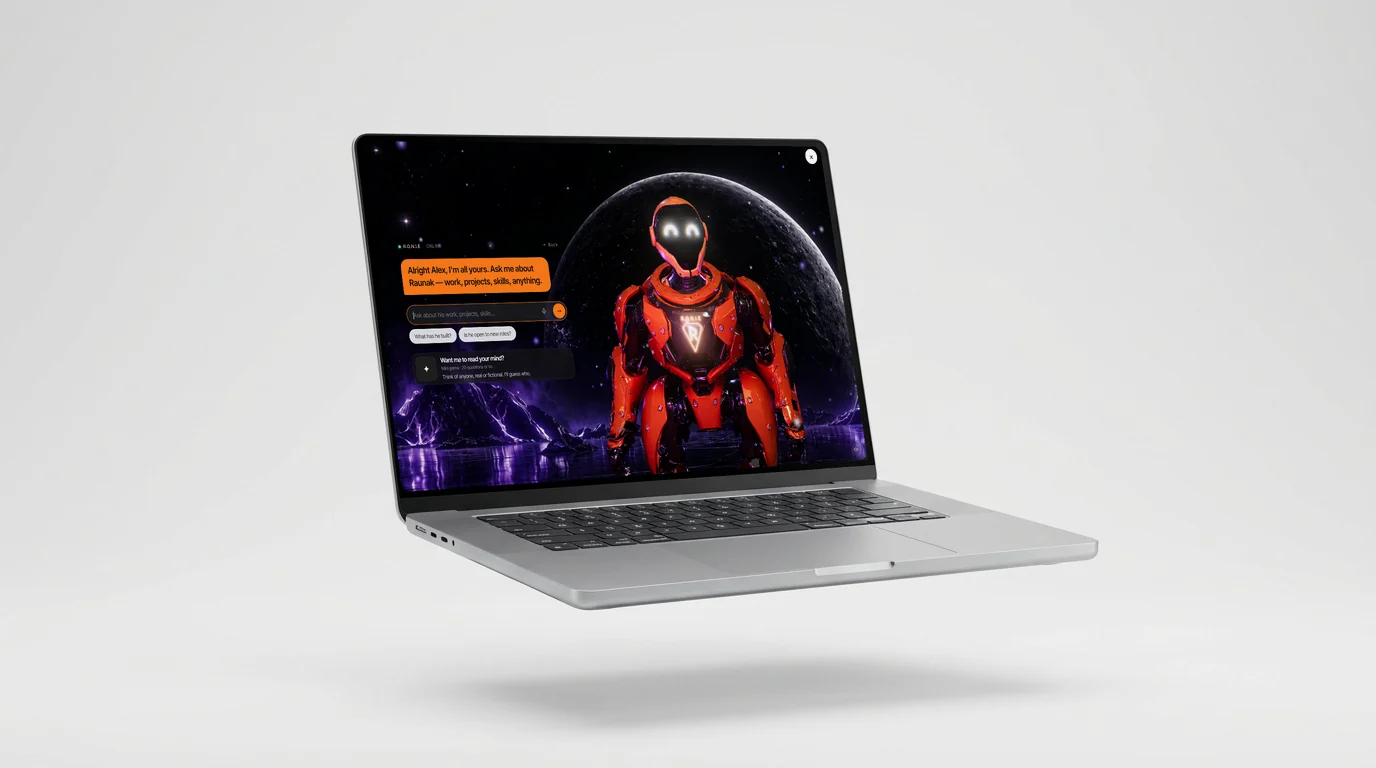
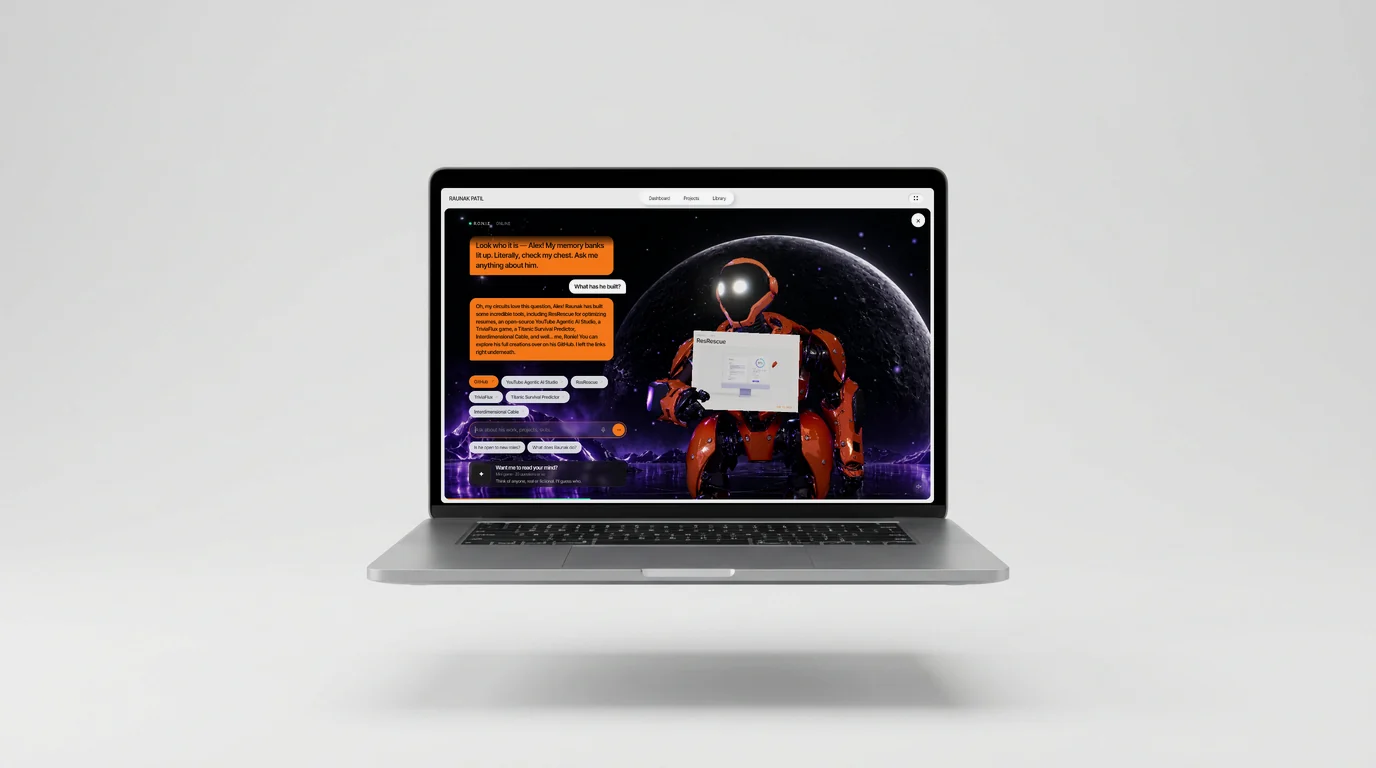
Projects: Ronie's card on the new laptop, holding a project card clear of his chest

Changed region(s): [[0.25, 0.1562, 0.8125, 0.8125], [0.375, 0.8125, 0.7188, 0.9688]]

diff --git a/js/data.js b/js/data.js
@@ -109,7 +109,7 @@ window.PORTFOLIO = {
      sit in it; 16:9 and 4:3); without them the tunnel uses image / imageMobile. */
   projects: [
     {
-      title: 'Ronie — 3D AI Agent', category: 'AI Agents', year: 2026, image: 'img/projects/ronie.webp?v=3', imageMobile: 'img/projects/ronie-mobile.webp?v=2', tunnelImage: 'img/tunnel/ronie.webp', tunnelImageMobile: 'img/tunnel/ronie-mobile.webp', colors: ['#ff7a1a', '#7c5cff'],
+      title: 'Ronie — 3D AI Agent', category: 'AI Agents', year: 2026, image: 'img/projects/ronie.webp?v=4', imageMobile: 'img/projects/ronie-mobile.webp?v=2', tunnelImage: 'img/tunnel/ronie.webp', tunnelImageMobile: 'img/tunnel/ronie-mobile.webp', colors: ['#ff7a1a', '#7c5cff'],
       tags: ['three.js', 'WebGPU', 'Kokoro TTS', 'Cloudflare Workers', 'Gemini', 'Blender'],
       description: "The 3D AI agent who lives on this website: he answers visitors' questions from real facts only, speaks in a neural voice that runs on their own GPU, reacts with 23 expressions and 23 moves I authored in Blender with Python, and plays a mind-reading game — free to run. Works with any 3D character; the code is an open template.",
       link: 'https://github.com/raunakpatil/ronie-3d-ai-website-agent', linkText: 'See the case study ↗',

diff --git a/index.html b/index.html
@@ -26,7 +26,7 @@
       d.classList.add(ronie || calm ? 'no-intro' : 'intro-on');
     })();
   </script>
-  <link rel="stylesheet" href="css/style.css?v=20261014700000">
+  <link rel="stylesheet" href="css/style.css?v=20261014710000">
   <script type="importmap">
     { "imports": {
       "three": "https://cdn.jsdelivr.net/npm/three@0.160.0/build/three.module.js",
@@ -338,7 +338,7 @@
     </div>
   </dialog>
 
-  <script src="js/data.js?v=20261014700000"></script>
-  <script src="js/main.js?v=20261014700000" defer></script>
+  <script src="js/data.js?v=20261014710000"></script>
+  <script src="js/main.js?v=20261014710000" defer></script>
 </body>
 </html>
